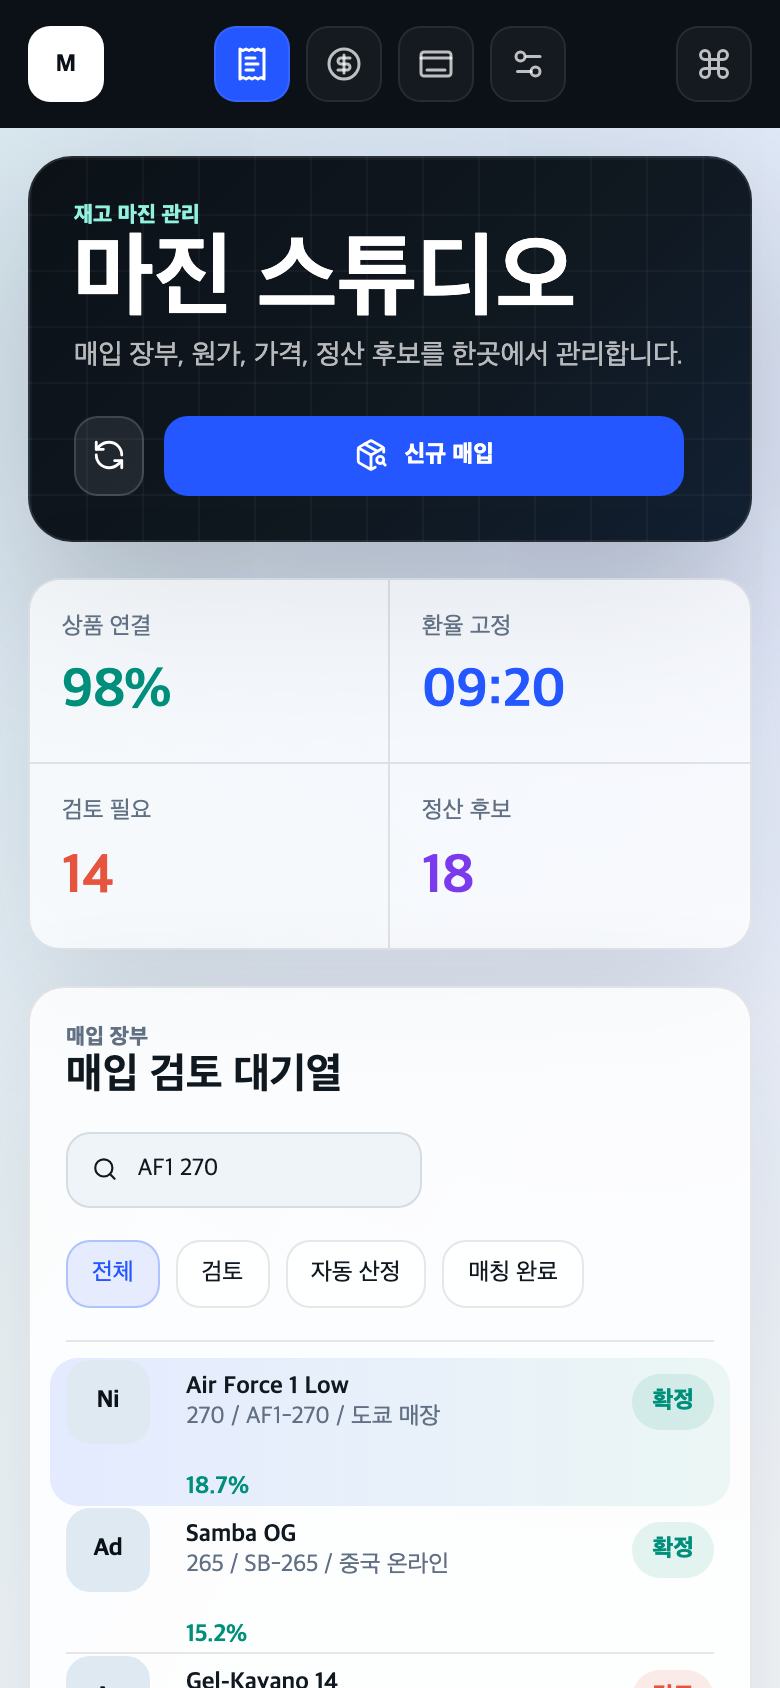
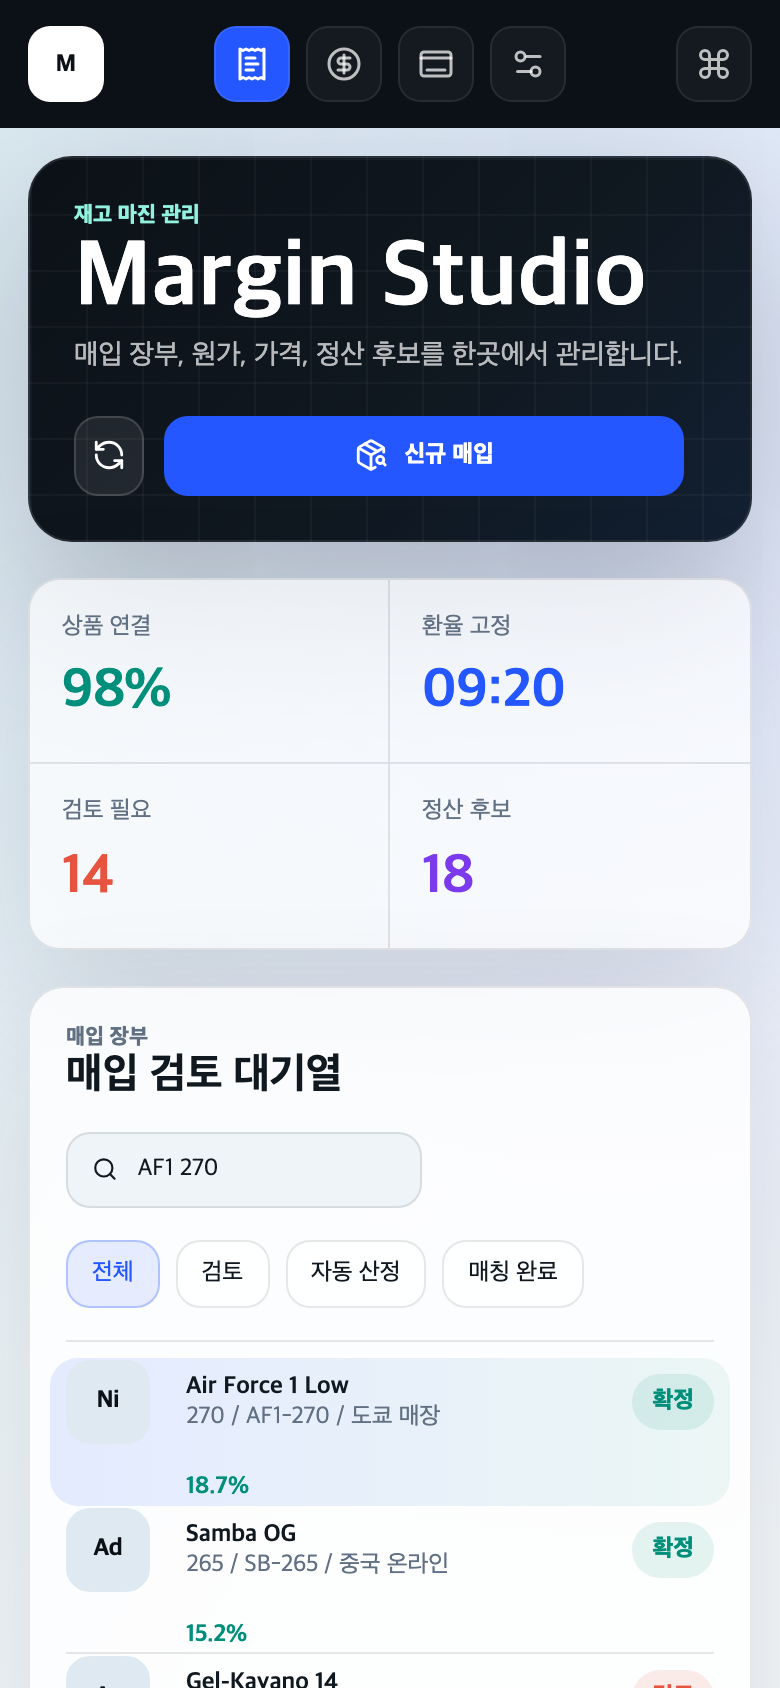
Restore English product title

Changed region(s): [[0.0923, 0.1232, 0.8308, 0.2156]]

diff --git a/apps/web/src/app/page.tsx b/apps/web/src/app/page.tsx
@@ -66,11 +66,11 @@ export default function HomePage() {
         </button>
       </aside>
 
-      <section className="studio-main" aria-label="마진 스튜디오 작업 화면">
+      <section className="studio-main" aria-label="Margin Studio 작업 화면">
         <header className="studio-header">
           <div className="title-stack">
             <p>재고 마진 관리</p>
-            <h1>마진 스튜디오</h1>
+            <h1>Margin Studio</h1>
             <span>매입 장부, 원가, 가격, 정산 후보를 한곳에서 관리합니다.</span>
           </div>
           <div className="header-actions">

diff --git a/apps/web/src/app/layout.tsx b/apps/web/src/app/layout.tsx
@@ -2,7 +2,7 @@ import type { Metadata } from "next";
 import "./globals.css";
 
 export const metadata: Metadata = {
-  title: "마진 스튜디오",
+  title: "Margin Studio",
   description:
     "커머스 매입, 원가, 가격, 정산 검토를 위한 운영 자동화 콘솔입니다.",
 };

diff --git a/README.md b/README.md
@@ -1,6 +1,6 @@
 # Commerce Ops Automation | 커머스 운영 자동화
 
-`마진 스튜디오`는 매입 등록, 원가 검토, 가격 점검, 정산 후보 매칭을 한 화면에서 처리하기 위한 커머스 운영 콘솔입니다.<br />
+`Margin Studio`는 매입 등록, 원가 검토, 가격 점검, 정산 후보 매칭을 한 화면에서 처리하기 위한 커머스 운영 콘솔입니다.<br />
 `Margin Studio` is a commerce operations console for purchase intake, landed-cost review, pricing checks, and settlement matching.
 
 고객 데이터, 핵심 산식, 외부 파트너 연동 세부사항은 제외하고, 운영 자동화 시스템의 구조와 구현 역량을 검증할 수 있도록 재구성한 공개 포트폴리오 레포입니다.  
@@ -51,7 +51,7 @@ Repetitive commerce operations are separated into product surfaces, API boundari
 ![Mobile console](docs/screenshots/mobile-console.png)
 
 - **제품명 중심 첫인상 / Product-led first impression**  
-  `마진 스튜디오`를 실제 제품처럼 보이게 구성하고, 운영 상태와 작업 큐가 바로 이어지도록 설계했습니다.
+  `Margin Studio`를 실제 제품처럼 보이게 구성하고, 운영 상태와 작업 큐가 바로 이어지도록 설계했습니다.
 - **운영자 우선 레이아웃 / Operator-first layout**  
   데스크톱에서는 내비게이션, 매입 장부, 자동화 상태, 검토 패널을 분리해 컨텍스트를 유지하며 검토할 수 있습니다.
 - **모바일 연속성 / Mobile continuity**  
